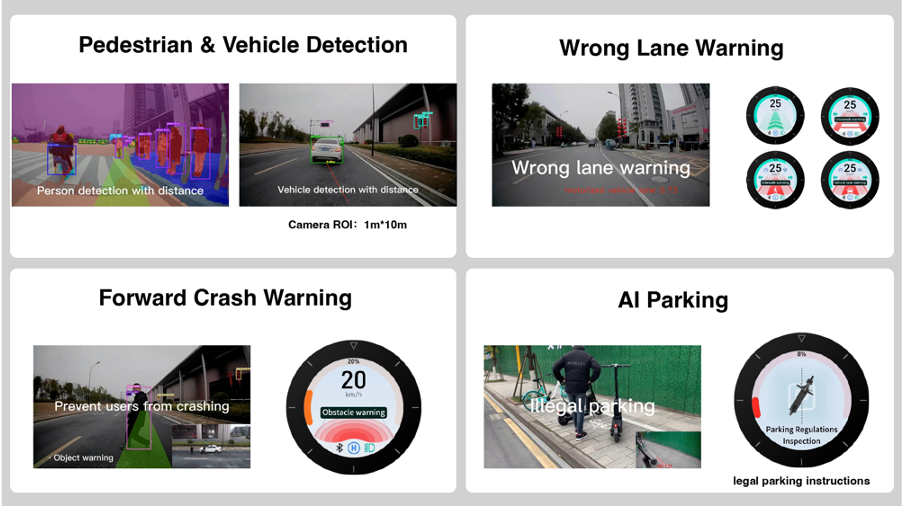
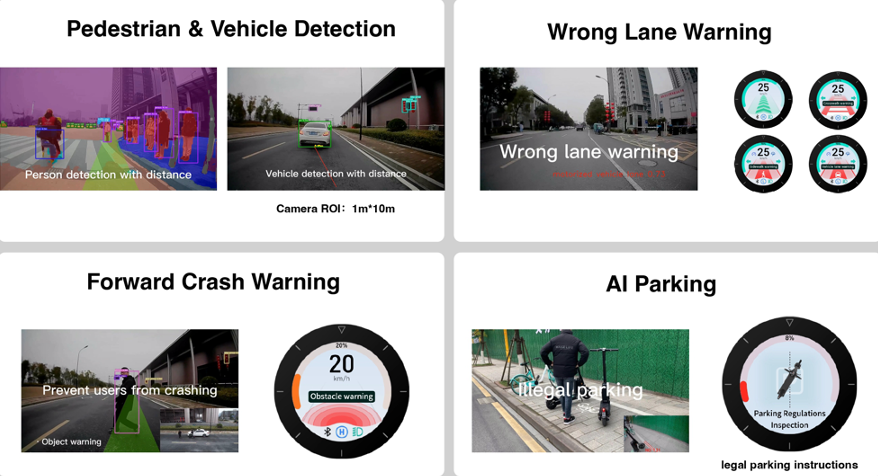
add academic site button

diff --git a/src/components/Home/FindMe.js b/src/components/Home/FindMe.js
@@ -6,6 +6,7 @@ import {
   AiFillInstagram,
   AiFillLinkedin
 } from "react-icons/ai";
+import { FaFeatherAlt } from "react-icons/fa";
 
 function FindMe(){
   return (
@@ -14,6 +15,17 @@ function FindMe(){
         <Row>
           <Col md={12} className="home-about-social">
             <ul className="home-about-social-links">
+              <li className="social-icons">
+                <a
+                    href="https://www.anleeno.com"
+                    target="_blank"
+                    rel="noreferrer"
+                    aria-label="Academic website"
+                    className="icon-colour  home-social-icons"
+                >
+                  <FaFeatherAlt />
+                </a>
+              </li>
               <li className="social-icons">
                 <a
                     href="https://github.com/anleeno"
